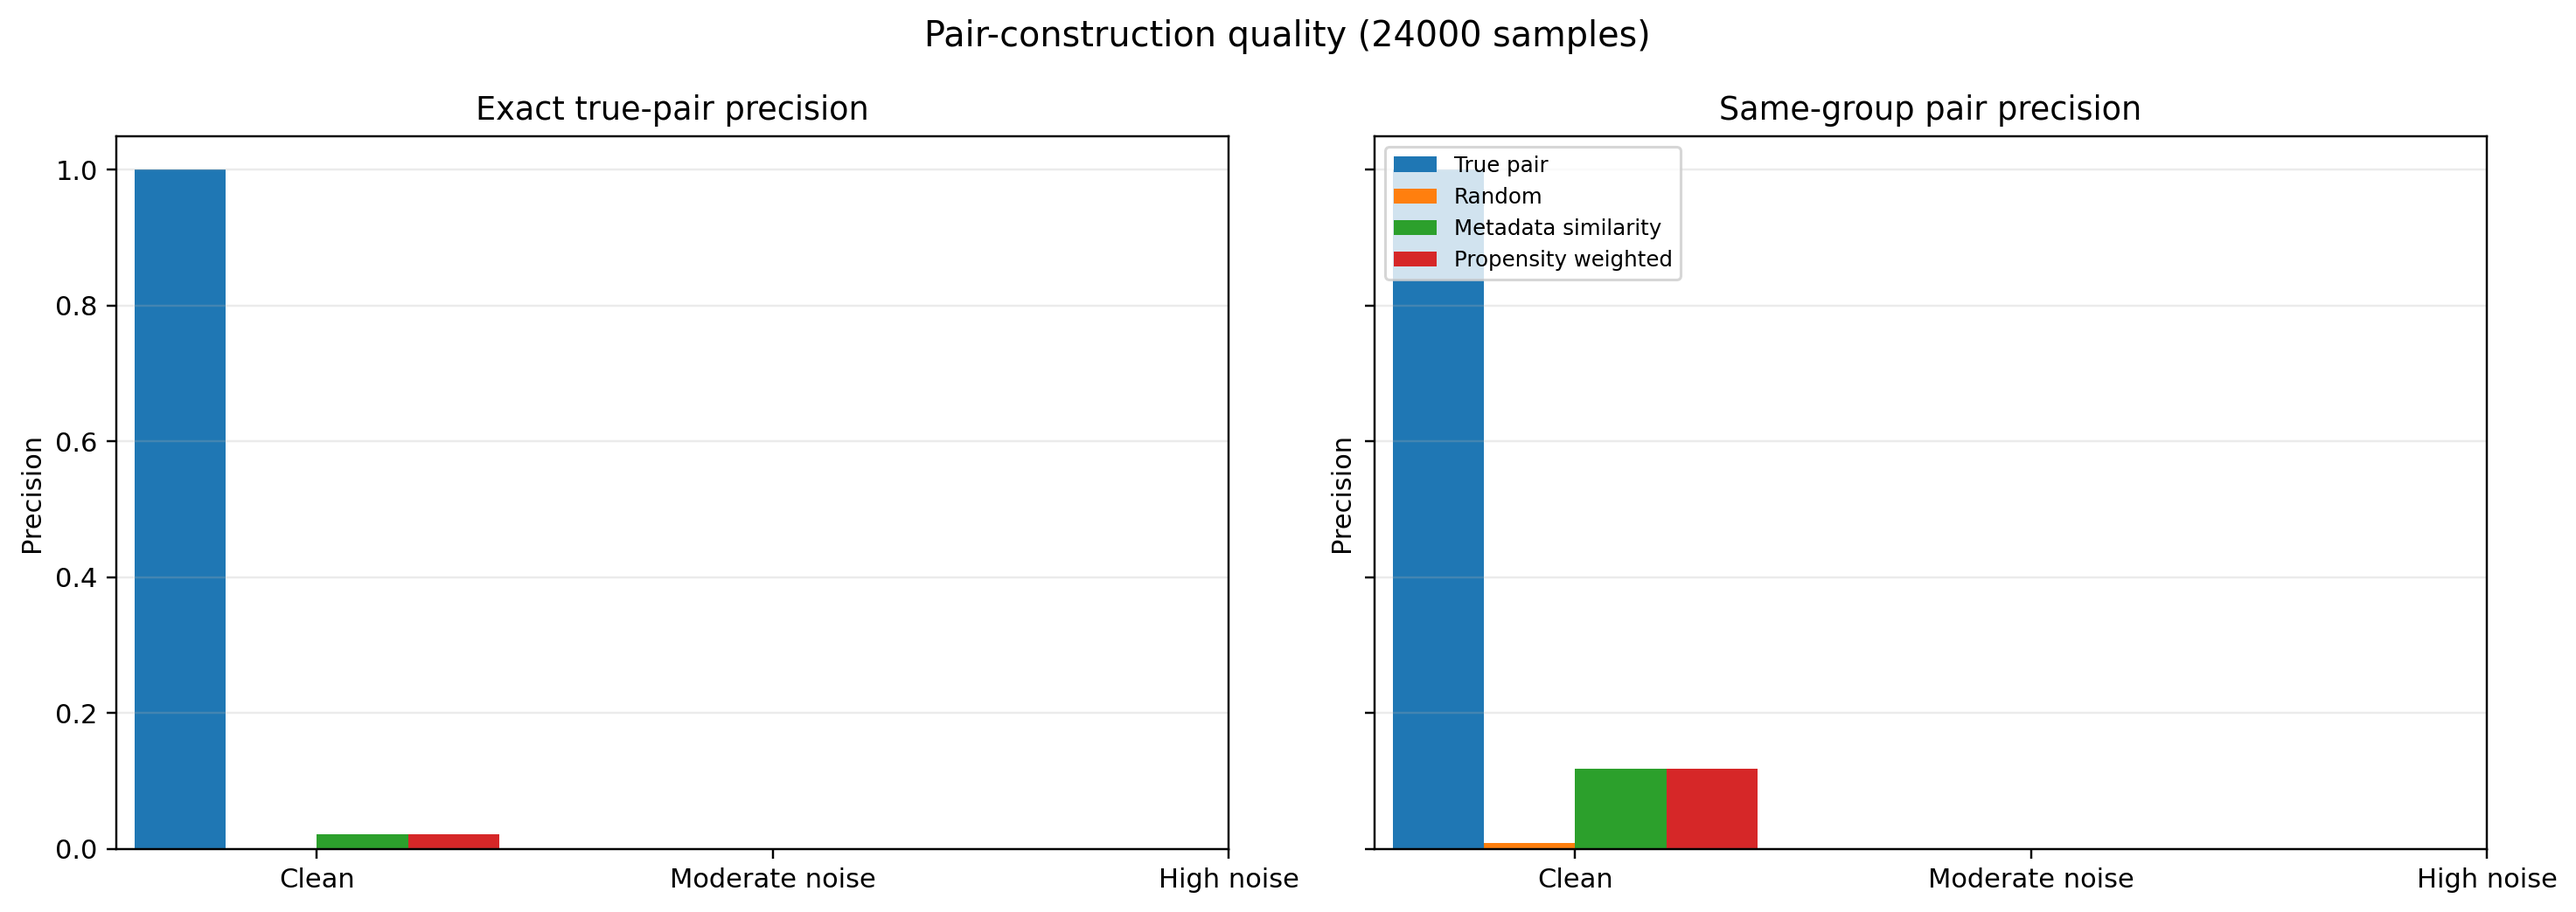
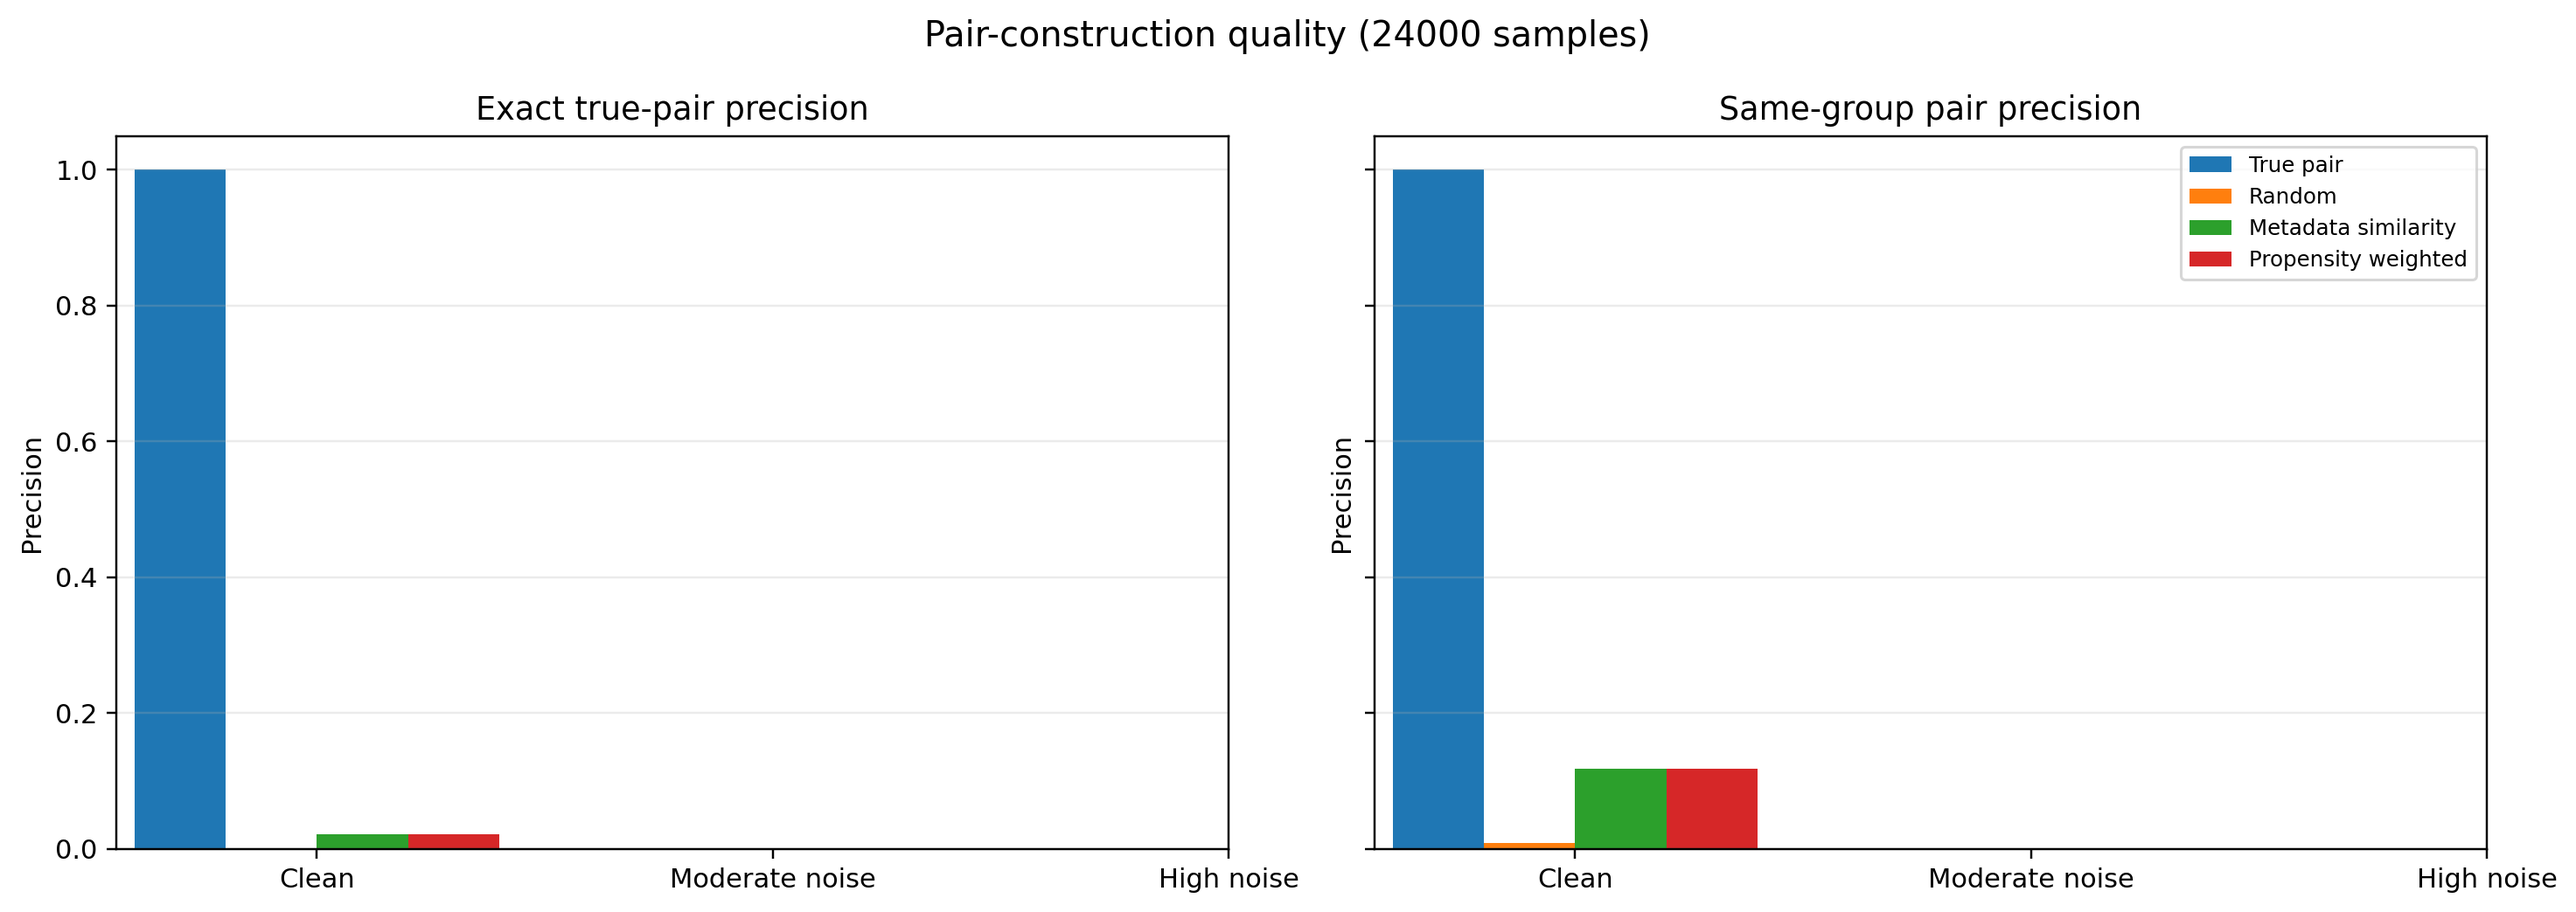
Place propensity matching legends inside plots

Changed region(s): [[0.5309, 0.1533, 0.6558, 0.3065], [0.8432, 0.1533, 0.9681, 0.3065]]

diff --git a/src/plot_pairing_results.py b/src/plot_pairing_results.py
@@ -109,7 +109,11 @@ def plot_pair_quality(n_samples: int = 24000) -> None:
         ax.set_ylabel("Precision")
         ax.grid(axis="y", alpha=0.25)
 
-    axes[1].legend(loc="best", fontsize=8)
+    axes[1].legend(
+        loc="upper right",
+        fontsize=8,
+        frameon=True,
+    )
 
     fig.suptitle(f"Pair-construction quality ({n_samples} samples)", fontsize=13)
     fig.tight_layout()
@@ -151,7 +155,11 @@ def plot_retrieval_comparison(n_samples: int = 24000) -> None:
     ax.set_xticks(x)
     ax.set_xticklabels([MODE_LABELS[m] for m in MODE_ORDER])
     ax.grid(axis="y", alpha=0.25)
-    ax.legend(loc="best", fontsize=8)
+    ax.legend(
+        loc="upper right",
+        fontsize=8,
+        frameon=True,
+    )
 
     fig.tight_layout()
     fig.savefig(FIGURES_DIR / "retrieval_strategy_comparison.png", dpi=220, bbox_inches="tight")
